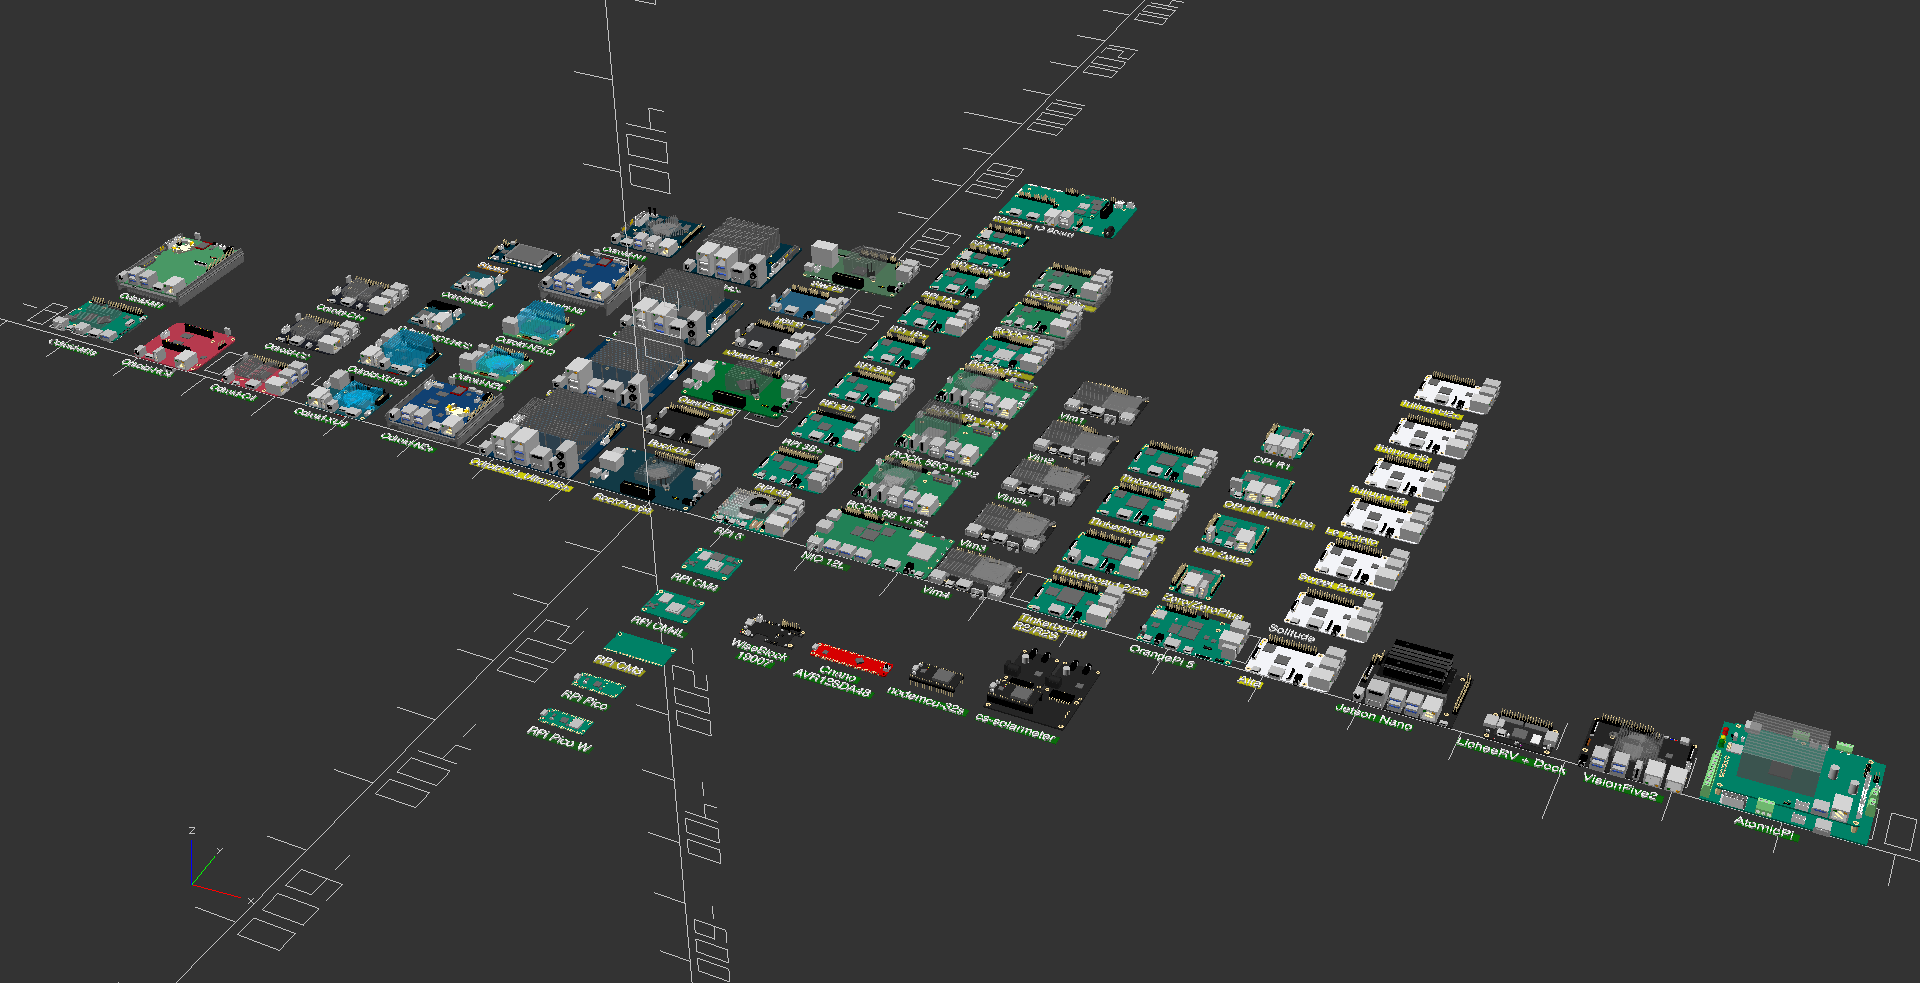
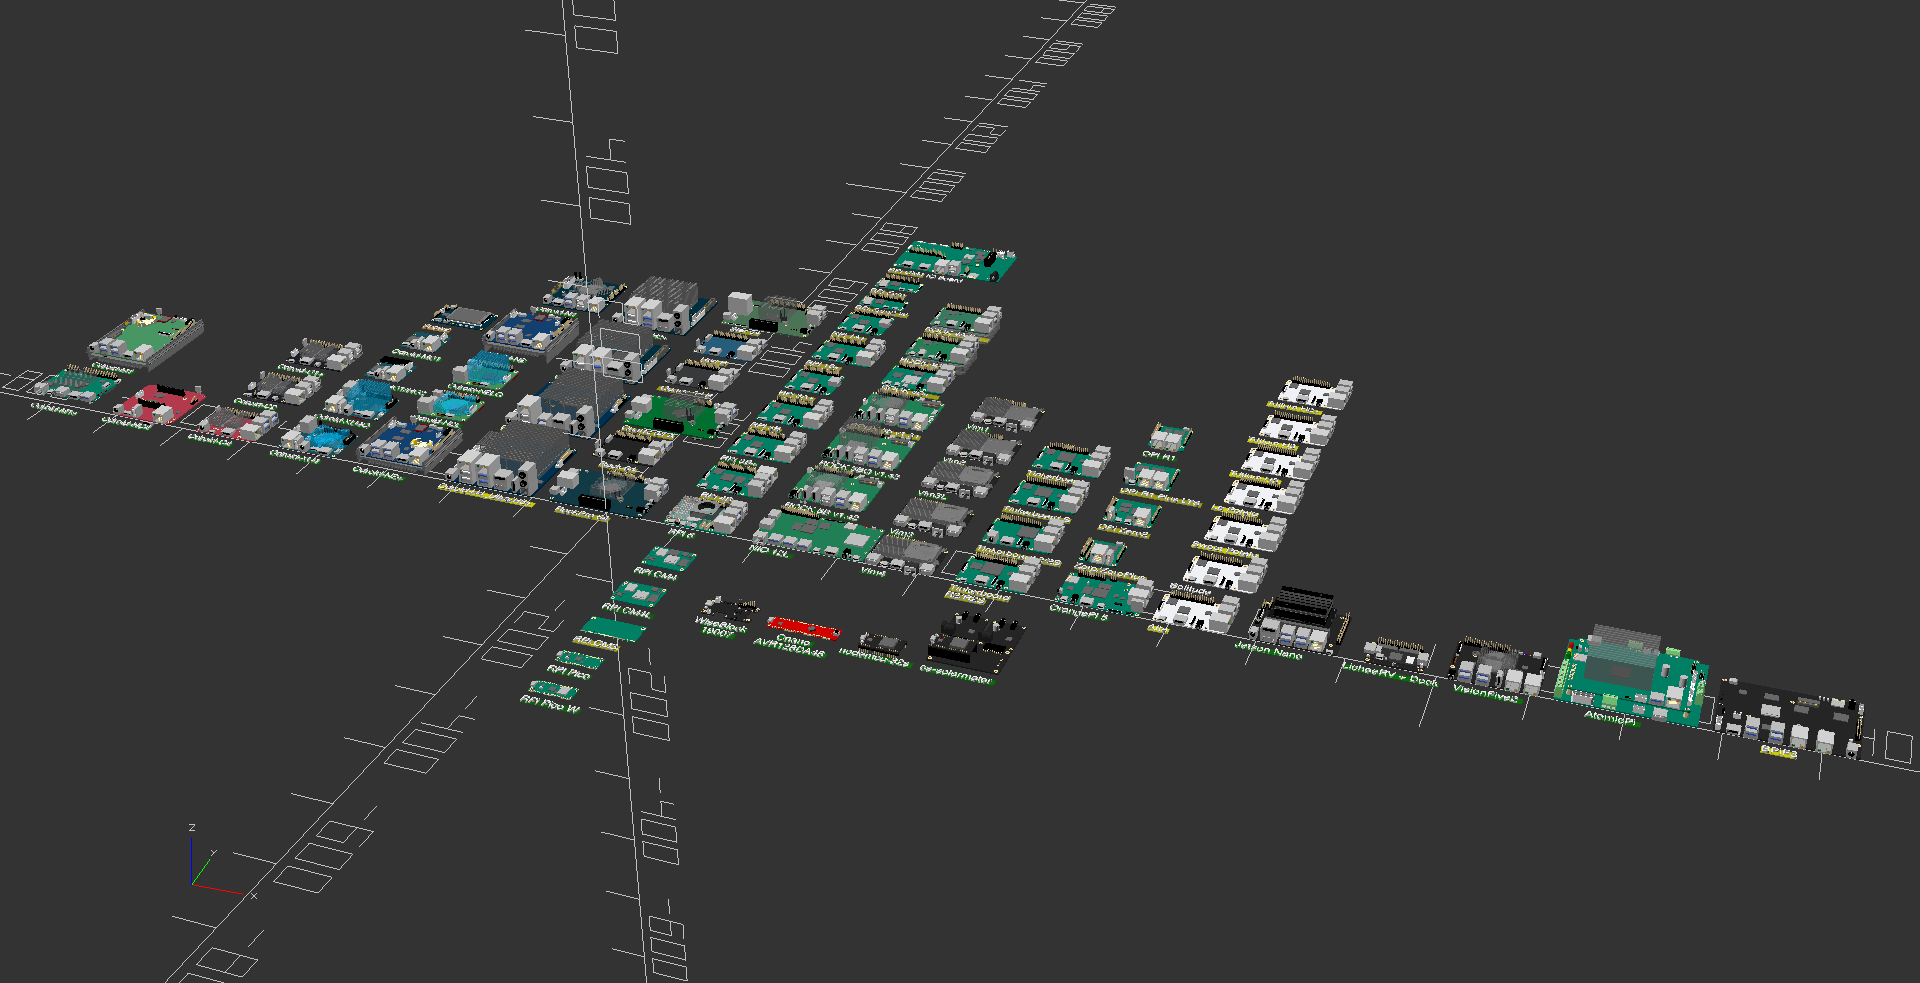
added bpif3 sbc, updated viewer and documentation

diff --git a/README.md b/README.md
@@ -12,13 +12,13 @@ SBC Model Framework provides 3D models of SBC, MCU, Compute Modules and Carrier 
 ### Current Library
 
 ```
-                  SBC: 73
-       Carrier Boards:  3
-      Compute Modules:  8
-    Micro Controllers:  6
-Standard Motherboards: 14
-             Custom PCB 1
-       Total Devices: 105
+                  SBC:  74
+       Carrier Boards:   3
+      Compute Modules:   8
+    Micro Controllers:   6
+Standard Motherboards:  14
+           Custom PCB:   1
+        Total Devices: 106
 ```
 
 ## Using SBC Model Framework
@@ -44,10 +44,16 @@ USAGE: sbc(model, enableheatsink = "default", fansize = 0, enablegpio =  "defaul
                  "opi5","opizero","opizero2","opir1plus_lts","opir1",
                  "lepotato","sweetpotato","tirtium-h2+","tritium-h3","tritium-h5","solitude","alta"
                  "jetsonnano",
+                 "bpif3",
                  "licheerv+dock",
                  "visionfive2",
-                 "atomicpi"
-                 "rak19007"
+                 "atomicpi",
+                 "rak19007",
+                 "cnano-avr128da48",
+                 "nodemcu-32s", "cs-solarmeter",
+                 "ssi-eeb", "ssi-ceb", "atx", "micro-atx", "dtx", "flex-atx", "mini-dtx", "mini-itx", "mini-itx_thin", 
+                 "mini-stx", "mini-stx_thin", "nano-itx", "nuc", "pico-itx"
+
 enableheatsink = "disable", "off", "default", "none", "open", "fan_open", "fan_1", "fan_2", "fan_hex", 
                  "vent", "vent_hex_5mm", "vent_hex_8mm", "custom"
        fansize = 0, 25, 30, 40, 50, 60, 70, 80, 92
